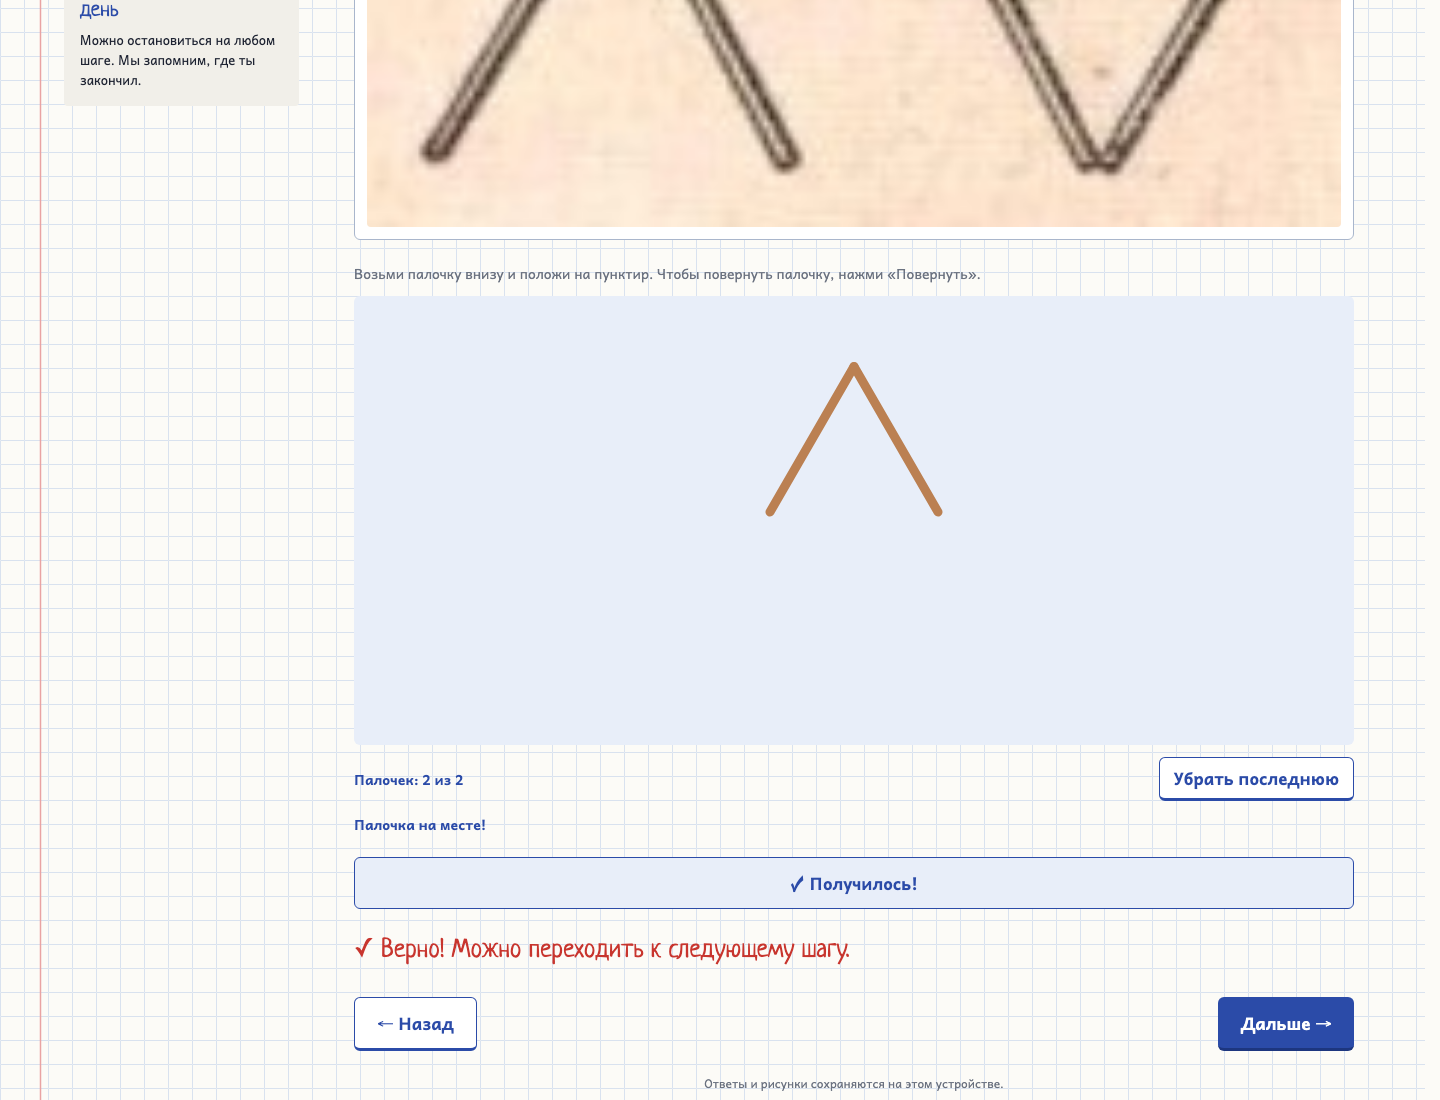
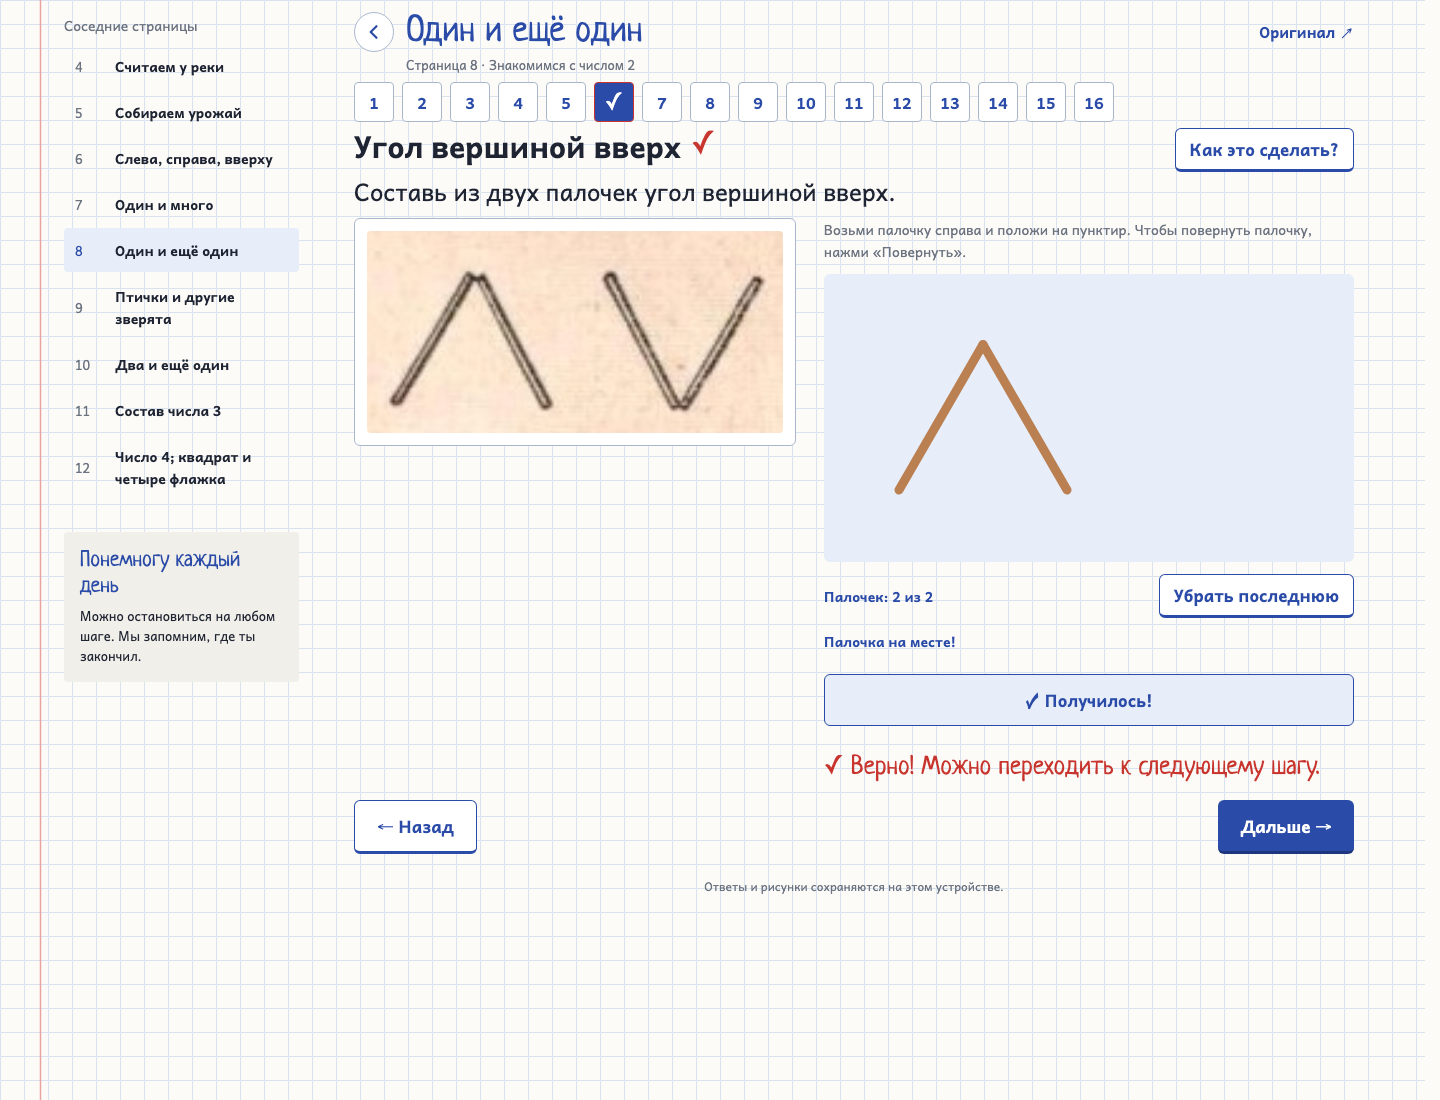
Fit the task to any computer window, not only a low one
A tall MacBook window (about 1960x1100) still got the old lesson header
and picture caps, so the first step's picture pushed «Дальше» off screen.
The 900px threshold is gone: on a tablet or a computer the header always
folds, the sample sits beside the work on a wide screen and every budget
is the window height minus the measured chrome. Only windows from 1000px
tall get the larger headings.

- Composing and question lists keep one stacked column, so a pair of
  composition steps keeps the same field width.
- The laptop-fit smoke now checks 1440x760, 1512x860, 1960x1100 and
  1920x1200 (300 task/window checks).
- Tests: the room picture's right chair is clicked on its seat (its back
  borders the window's area), the offscreen-coach check uses a 520px
  window, search looks for «№ N» wherever the step line shows it.

Full test:all green.

diff --git a/src/components/taskSize.ts b/src/components/taskSize.ts
@@ -1,43 +1,49 @@
-import { useWindowDimensions } from "react-native";
+import { Platform, useWindowDimensions } from "react-native";
 const clamp = (v: number, min: number, max: number) =>
   Math.round(Math.min(max, Math.max(min, v)));
 /**
- * How much of the screen a task's illustration may take. Fixed pixel caps made
- * pictures tiny on a big monitor and still pushed the answer off a phone
- * screen; tied to the window height, the picture and the place to answer stay
- * within one view on both. On wide screens the budget is what is left after
- * the lesson header, the prompt and the step buttons.
+ * How much of the screen a task's illustration may take. On a tablet or a
+ * computer the whole task — header, prompt, picture, answer, «Дальше» — is
+ * fitted to the window height, whatever the height: a fixed threshold left a
+ * tall MacBook window with the old, roomier layout that did not fit either.
+ * A phone scrolls, and keeps its picture to a share of the screen.
  */
 export function useTaskSize() {
   const { width, height } = useWindowDimensions();
   const compact = width < 600,
     wide = width >= 1000,
-    // A laptop browser leaves 700–850px: the lesson header folds down like a
-    // phone's so the task and «Дальше» still fit without scrolling.
-    short = !compact && height < 900;
+    // Tablet or computer: the lesson header folds and the task fits the window.
+    fit = !compact,
+    // Only a really tall window can afford the larger headings.
+    tall = wide && height >= 1000,
+    // Headings take ~40px more on a tall window.
+    extra = tall ? 40 : 0;
   return {
     compact,
     wide,
-    short,
+    fit,
+    tall,
     /** Illustration next to something to answer. */
     picture: compact
       ? clamp(height * 0.3, 170, 280)
-      : short
-        ? clamp(height - 470, 180, 460)
-        : clamp(height - 560, 270, 600),
+      : clamp(height - 470 - extra, 180, 720),
     /** Illustration of a step that is only looked at. */
     read: compact
       ? clamp(height * 0.4, 220, 360)
-      : short
-        ? clamp(height - 360, 220, 540)
-        : clamp(height - 460, 340, 700),
+      : clamp(height - 400 - extra, 220, 820),
     /** Picture that is itself the answer: it gets the most room. */
     target: compact
       ? clamp(height * 0.42, 240, 420)
-      : short
-        ? clamp(height - 470, 200, 480)
-        : clamp(height - 580, 300, 680),
-    /** Sample beside the work on a wide, low window: the column's height. */
-    beside: clamp(height - 330, 200, 560),
+      : clamp(height - 470 - extra, 200, 760),
+    /** Sample beside the work on a wide window: the column's height. */
+    beside: clamp(height - 330 - extra, 200, 760),
   };
+}
+/** A mouse or trackpad: targets may be smaller than a fingertip. */
+export function finePointer() {
+  return (
+    Platform.OS === "web" &&
+    typeof window !== "undefined" &&
+    !!window.matchMedia?.("(pointer: fine)").matches
+  );
 }

diff --git a/src/components/Exercise.tsx b/src/components/Exercise.tsx
@@ -57,9 +57,10 @@ function ExerciseBody({ block, answer, onAnswer, onDrawing }: ExerciseProps) {
   // instead of above it, so both fit under the lesson header.
   const beside =
     size.wide &&
-    size.short &&
-    block.kind !== "picture" &&
-    block.kind !== "read" &&
+    size.fit &&
+    // Not for a picture that is the answer, a page to read, or composing
+    // and question lists: their field must keep one width from step to step.
+    !["picture", "read", "activity", "work"].includes(block.kind) &&
     block.images.length > 0;
   const done = isDone(block, answer),
     correct = isCorrect(block, answer);
@@ -72,7 +73,7 @@ function ExerciseBody({ block, answer, onAnswer, onDrawing }: ExerciseProps) {
       ? Array.isArray(answer.value) && answer.value.length > 0
       : answer.value !== undefined && answer.value !== "";
   return (
-    <View style={{ gap: size.short ? 10 : size.compact ? 14 : 22 }}>
+    <View style={{ gap: size.fit ? 10 : 14 }}>
       {size.compact && <CoachButton onPress={showTaskCoach} />}
       {/* On wider screens the button sits beside the heading: a row of its own
           pushed the task a whole line down. */}
@@ -85,10 +86,7 @@ function ExerciseBody({ block, answer, onAnswer, onDrawing }: ExerciseProps) {
           <View style={{ flexDirection: "row", alignItems: "center", gap: 10 }}>
             <Text
               testID="block-title"
-              style={[
-                s.title,
-                size.wide && !size.short && { fontSize: 30, lineHeight: 36 },
-              ]}
+              style={[s.title, size.tall && { fontSize: 30, lineHeight: 36 }]}
             >
               {block.title}
             </Text>
@@ -105,10 +103,7 @@ function ExerciseBody({ block, answer, onAnswer, onDrawing }: ExerciseProps) {
           {block.kind !== "read" && !promptRepeatsTitle(block) && (
             <Text
               testID="block-prompt"
-              style={[
-                s.prompt,
-                size.wide && !size.short && { fontSize: 24, lineHeight: 34 },
-              ]}
+              style={[s.prompt, size.tall && { fontSize: 24, lineHeight: 34 }]}
             >
               {block.prompt}
             </Text>
@@ -120,7 +115,7 @@ function ExerciseBody({ block, answer, onAnswer, onDrawing }: ExerciseProps) {
         style={
           beside
             ? { flexDirection: "row", alignItems: "flex-start", gap: 28 }
-            : { gap: size.compact || size.short ? 14 : 22 }
+            : { gap: 14 }
         }
       >
         <View

diff --git a/src/components/DrawingPad.tsx b/src/components/DrawingPad.tsx
@@ -21,7 +21,7 @@ import { traceDirections, traceArrowGeometry } from "../lib/traceDirections";
 import { colors as c, fonts as f } from "../theme";
 import { Button, ProgressBar, RetryNote } from "./Controls";
 import { padCellSize, targetSpanCells } from "../lib/padLayout";
-import { useTaskSize } from "./taskSize";
+import { finePointer, useTaskSize } from "./taskSize";
 export function DrawingPad({
   strokes,
   onChange,
@@ -55,7 +55,7 @@ export function DrawingPad({
         ...trace.stages.flat().map((t) => targetSpanCells(t.points, columns)),
       )
     : 0;
-  const { compact, short } = useTaskSize();
+  const { compact, fit } = useTaskSize();
   // On a laptop the sheet takes what is left of the window under it, keeping
   // room for the hint and «Дальше»; a phone scrolls and keeps fingertip cells.
   const windowHeight = useWindowDimensions().height;
@@ -66,7 +66,7 @@ export function DrawingPad({
         containerWidth,
         columns,
         widestTarget,
-        short && sheetTop !== null
+        fit && sheetTop !== null
           ? {
               height: windowHeight - sheetTop - 150,
               rows,
@@ -518,13 +518,6 @@ export function DrawingPad({
       )}
       {error !== "" && <RetryNote>{error}</RetryNote>}
     </View>
-  );
-}
-function finePointer() {
-  return (
-    Platform.OS === "web" &&
-    typeof window !== "undefined" &&
-    !!window.matchMedia?.("(pointer: fine)").matches
   );
 }
 /** The nearest ancestor that scrolls vertically: the lesson's scroll pane. */

diff --git a/src/components/CounterBoard.tsx b/src/components/CounterBoard.tsx
@@ -1,5 +1,5 @@
 import { useGestureCoach } from "./GestureCoach";
-import { useTaskSize } from "./taskSize";
+import { finePointer, useTaskSize } from "./taskSize";
 import React, { useEffect, useRef, useState } from "react";
 import { View, Text, Platform, ScrollView } from "react-native";
 import type { Point } from "../content/types";
@@ -101,12 +101,12 @@ export function CounterBoard({
   const count = slots ? occupied.length : Math.max(0, Math.min(max, value));
   const rowMode = layout === "row" && !slots;
   // A laptop window is low: the empty field starts two rows high and grows.
-  const { short } = useTaskSize();
+  const { fit } = useTaskSize();
   const geometry = counterBoardLayout(
     width,
     count,
     rowMode ? "row" : "groups",
-    short ? 132 : 190,
+    fit ? 132 : 190,
   );
   const boardWidth = geometry.width;
   const fieldHeight = slots ? 190 : geometry.fieldHeight;
@@ -401,7 +401,7 @@ export function CounterBoard({
               : "кружок")}{" "}
         внизу и перенеси на поле.
       </Text>
-      {!short && (
+      {!(fit && finePointer()) && (
         <Text style={{ fontFamily: f.regular, color: c.muted, fontSize: 14 }}>
           Не отпускай палец, пока несёшь предмет. Лишний предмет верни вниз.
         </Text>

diff --git a/App.tsx b/App.tsx
@@ -145,8 +145,10 @@ function Main() {
   const width = comparison && sideBySide ? windowWidth * 0.52 : windowWidth;
   const wide = width >= 1000,
     compact = width < 600,
-    // Laptop-height window: same rule as useTaskSize, the header folds down.
-    short = !compact && windowHeight < 900;
+    // Same rule as useTaskSize: off a phone the lesson fits the window and
+    // its header folds; only a tall window gets the larger title.
+    short = !compact,
+    tall = wide && windowHeight >= 1000;
   useEffect(() => {
     let mounted = true;
     readProgress()
@@ -629,6 +631,7 @@ function Main() {
                     style={[
                       s.lessonTitle,
                       (compact || short) && { fontSize: 28, lineHeight: 33 },
+                      tall && { fontSize: 36, lineHeight: 42 },
                     ]}
                   >
                     {page.title}

diff --git a/src/components/ShapeBoard.tsx b/src/components/ShapeBoard.tsx
@@ -38,7 +38,7 @@ export function ShapeBoard({
   const [rotation, setRotation] = useState<Record<number, number>>({});
   // On a wide, low window the stick waits to the right of the shape instead
   // of under it: the board is half as tall and stays on screen.
-  const landscape = useTaskSize().short && width >= 420;
+  const landscape = useTaskSize().fit && width >= 420;
   const scale = landscape
     ? Math.min(240, width * 0.5 - 24)
     : Math.min(width - 32, 240);
